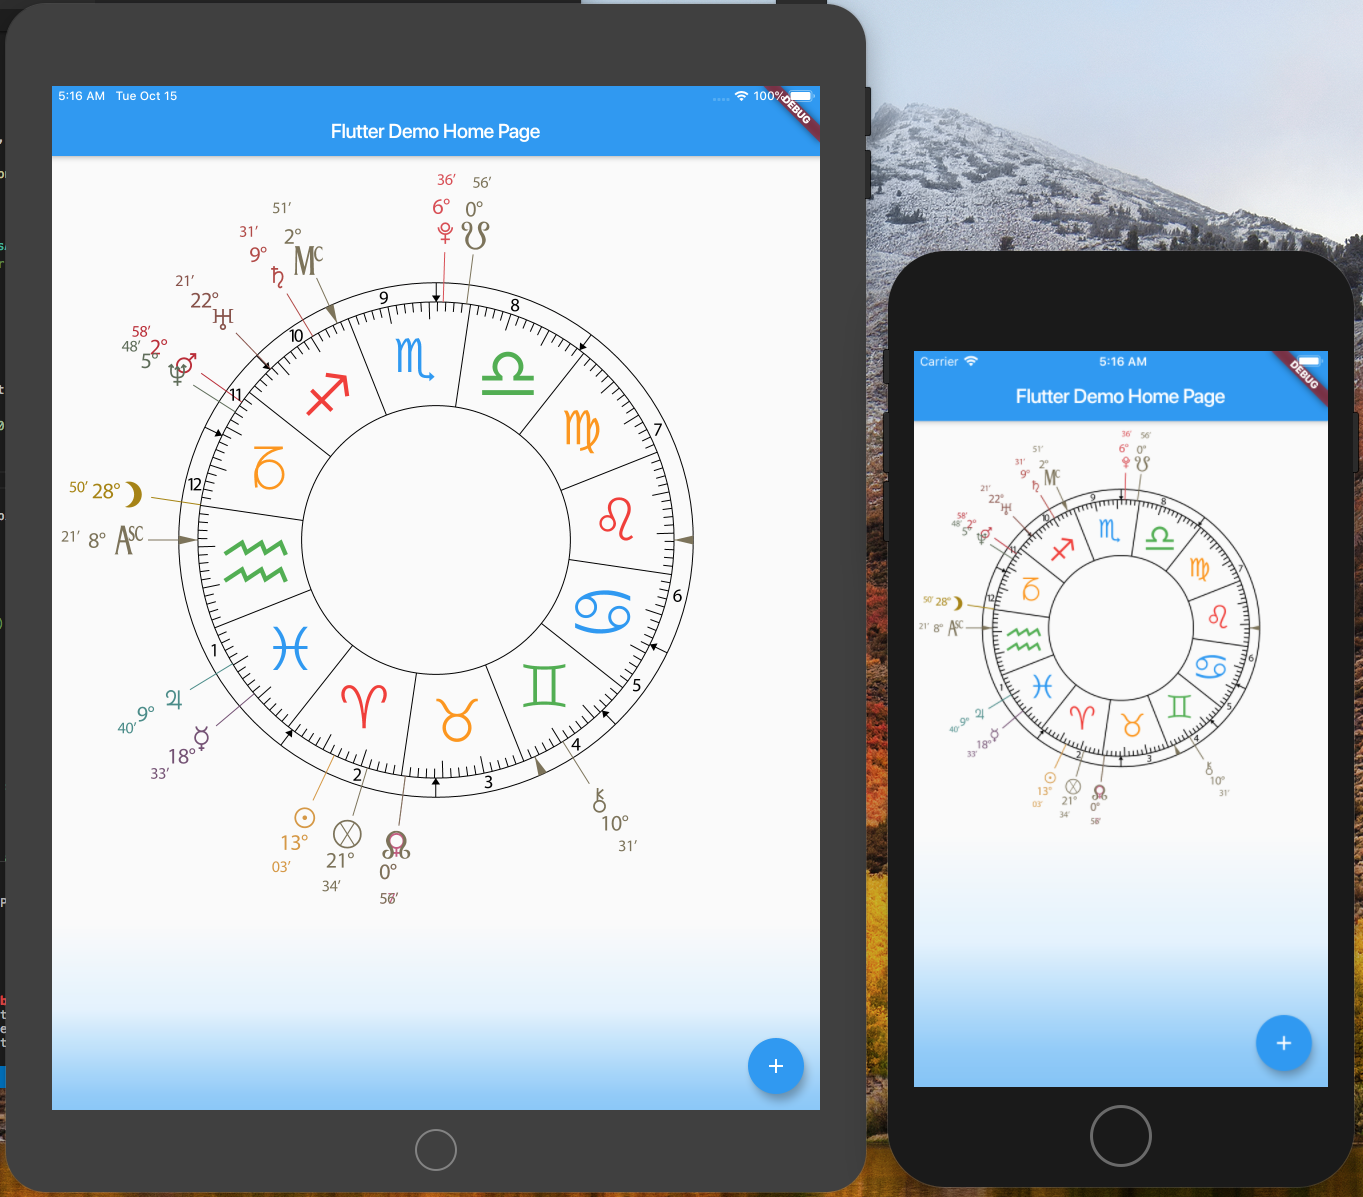
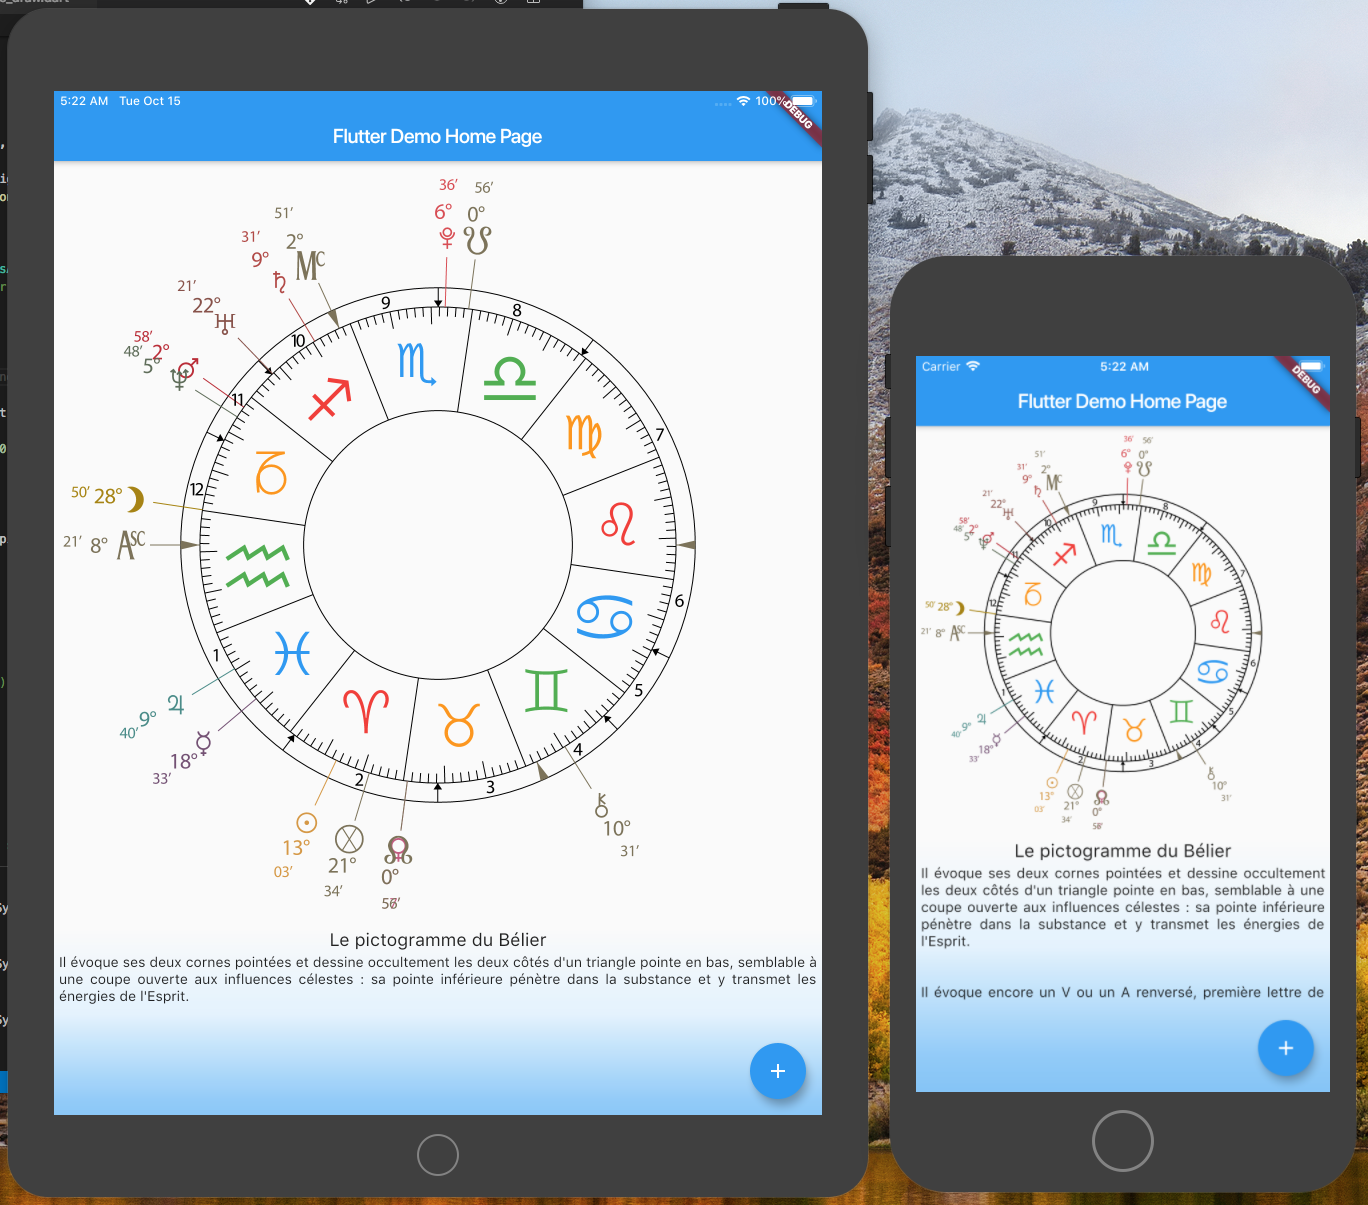
margin ok

diff --git a/lib/main.dart b/lib/main.dart
@@ -594,6 +594,7 @@ Future<void> testCallPython() async {
                   child: Align(
                     alignment: AlignmentDirectional.bottomCenter,
                     child: new Container(
+                      margin: const EdgeInsets.only(left: 5.0, right: 5.0),
                       height: calcDraw.getSizeHMinusFloatingButtonBottom(),
                       width: calcDraw.getSizeWH(),
                       child: new SingleChildScrollView(
@@ -604,7 +605,7 @@ Future<void> testCallPython() async {
                               child: new Text('test'),
                             ),*/
                             SizedBox(
-                              height: 20.0,
+                              height: 25.0,
                               child: Container(
                                 child: new Text(_zodiacTextSelect.pictogramme.titre,
                                   textAlign: TextAlign.center,
@@ -613,7 +614,9 @@ Future<void> testCallPython() async {
                               ),
                             ),
                             Container(
-                              child: new Text(_zodiacTextSelect.pictogramme.contenu)
+                              child: new Text(_zodiacTextSelect.pictogramme.contenu,
+                              textAlign: TextAlign.justify
+                              )
                             ),
                           ]),
                         ),
